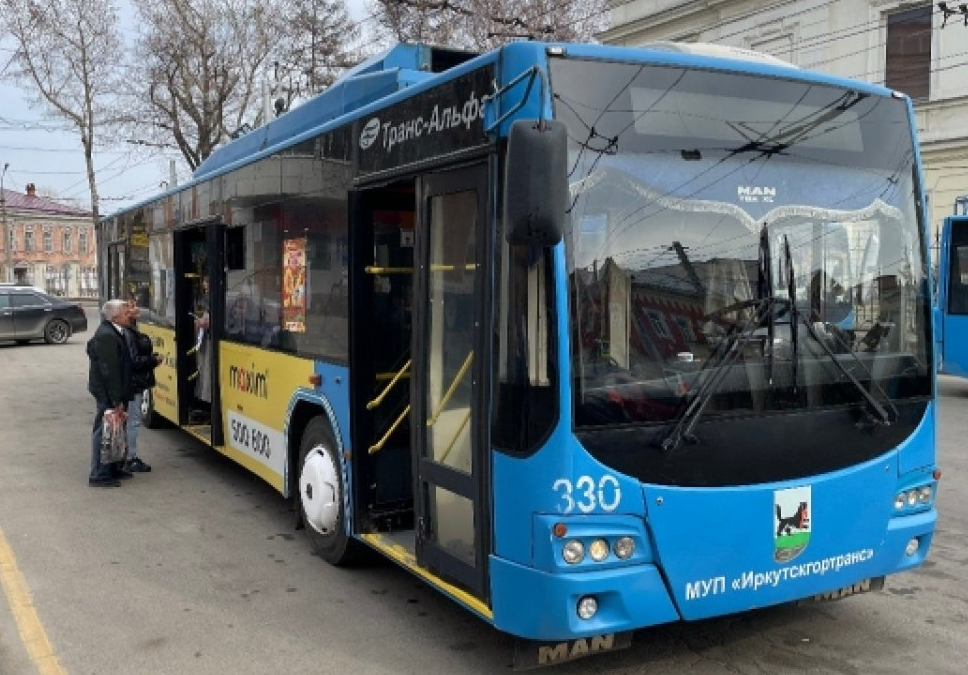
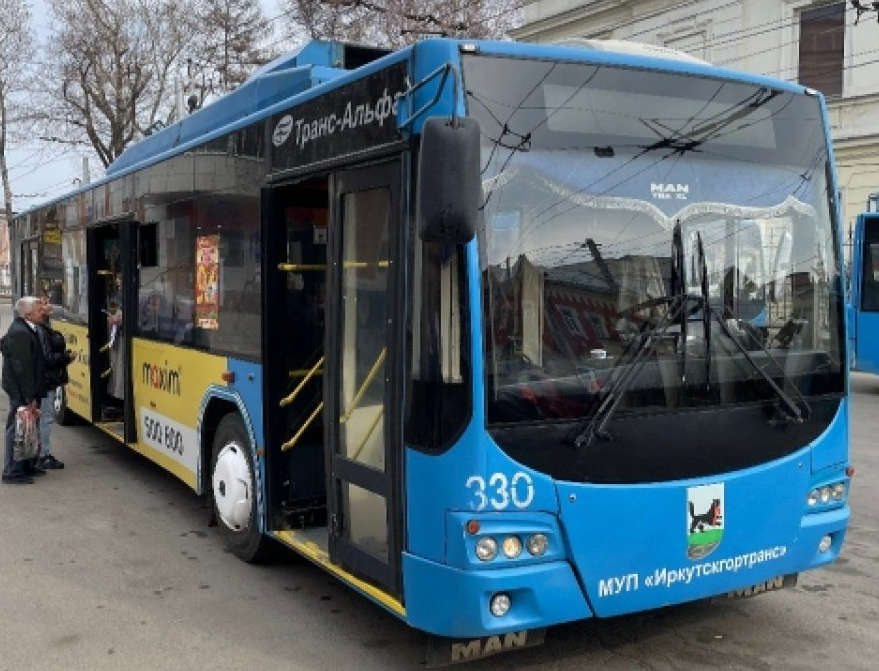
upd images

diff --git a/index.html b/index.html
@@ -9,7 +9,6 @@
 <body class="page">
   <div class="wrapper">
     <header class="header">
-      <p class="header-note">Сайт для учебного проекта по ИСИТ</p>
       <nav class="menu">
         <a class="menu-link active" href="index.html">Главная</a>
         <a class="menu-link" href="tram.html">Трамвай</a>
@@ -43,7 +42,7 @@
 
       <section class="cards panel">
         <h2 class="section-center">Виды транспорта</h2>
-        <h3 class="section-subtitle">Нажмите на карточку, чтобы открыть отдельную страницу</h3>
+        <h3 class="section-subtitle">Нажмите на карточку, чтобы открыть отдельную страницу с более подробной информацией по каждому из видов транспорта.</h3>
 
         <div class="cards-grid">
           <a class="card" href="tram.html">
@@ -70,7 +69,7 @@
     </main>
 
     <footer class="footer">
-      <p>Автор: студент 1 курса, 2026 год</p>
+      <p>Автор: Иванов Иван, БИ-25-1</p>
       <p>
         Внешняя ссылка:
         <a href="https://admirk.ru/" target="_blank" rel="noopener noreferrer">сайт администрации Иркутска</a>

diff --git a/style.css b/style.css
@@ -128,8 +128,13 @@ a {
 }
 
 .card-image {
+  width: 100%;
+  height: 140px;
+  object-fit: cover;
+  border-radius: 10px;
   margin-bottom: 10px;
 }
+
 
 .footer {
   padding: 18px 20px;
